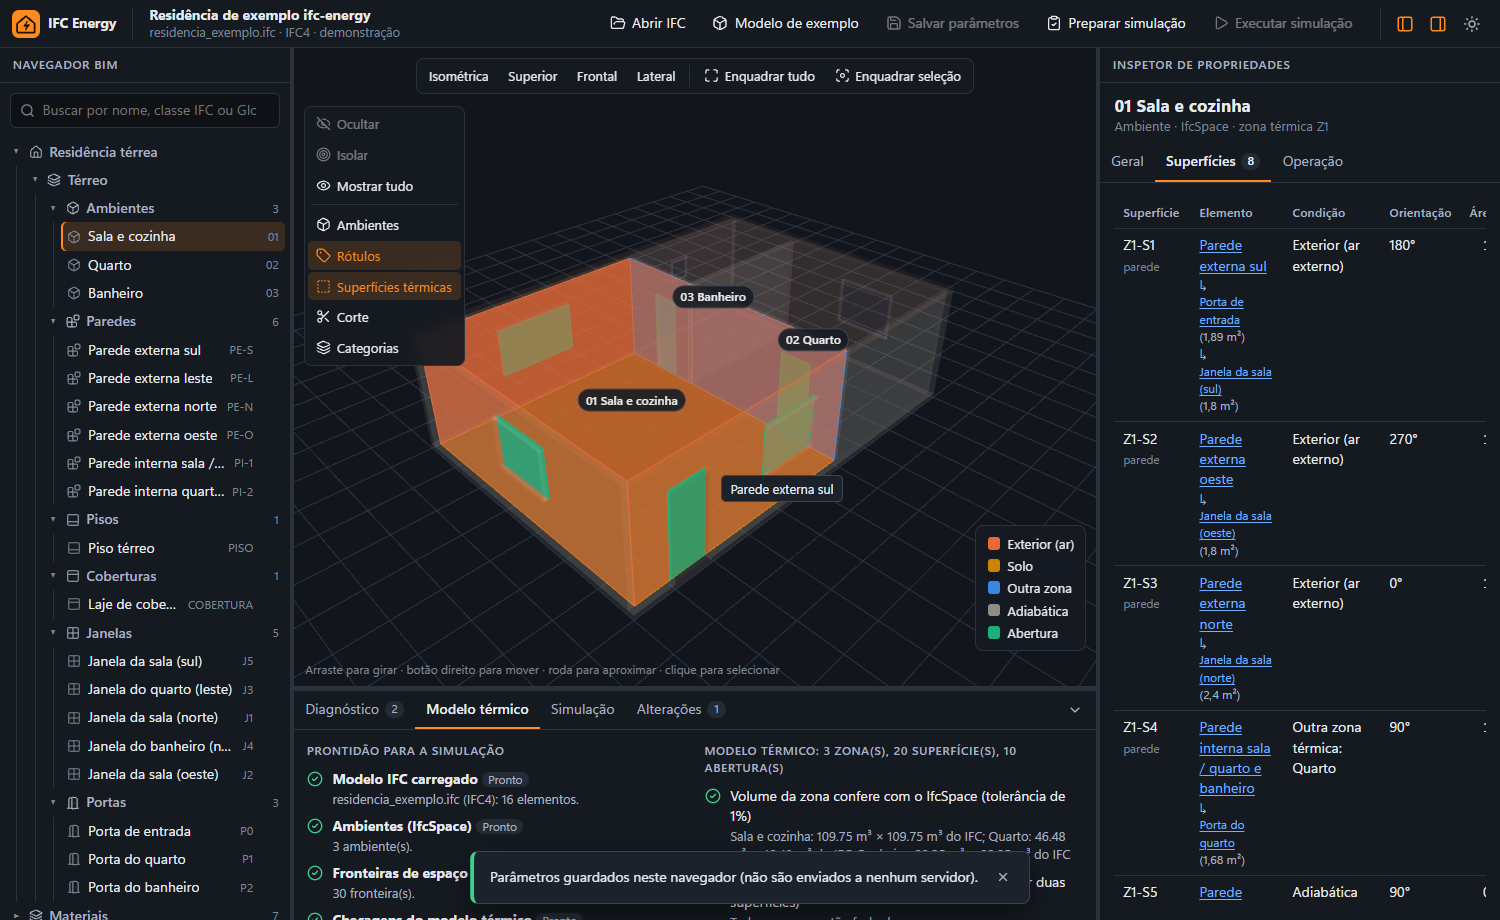
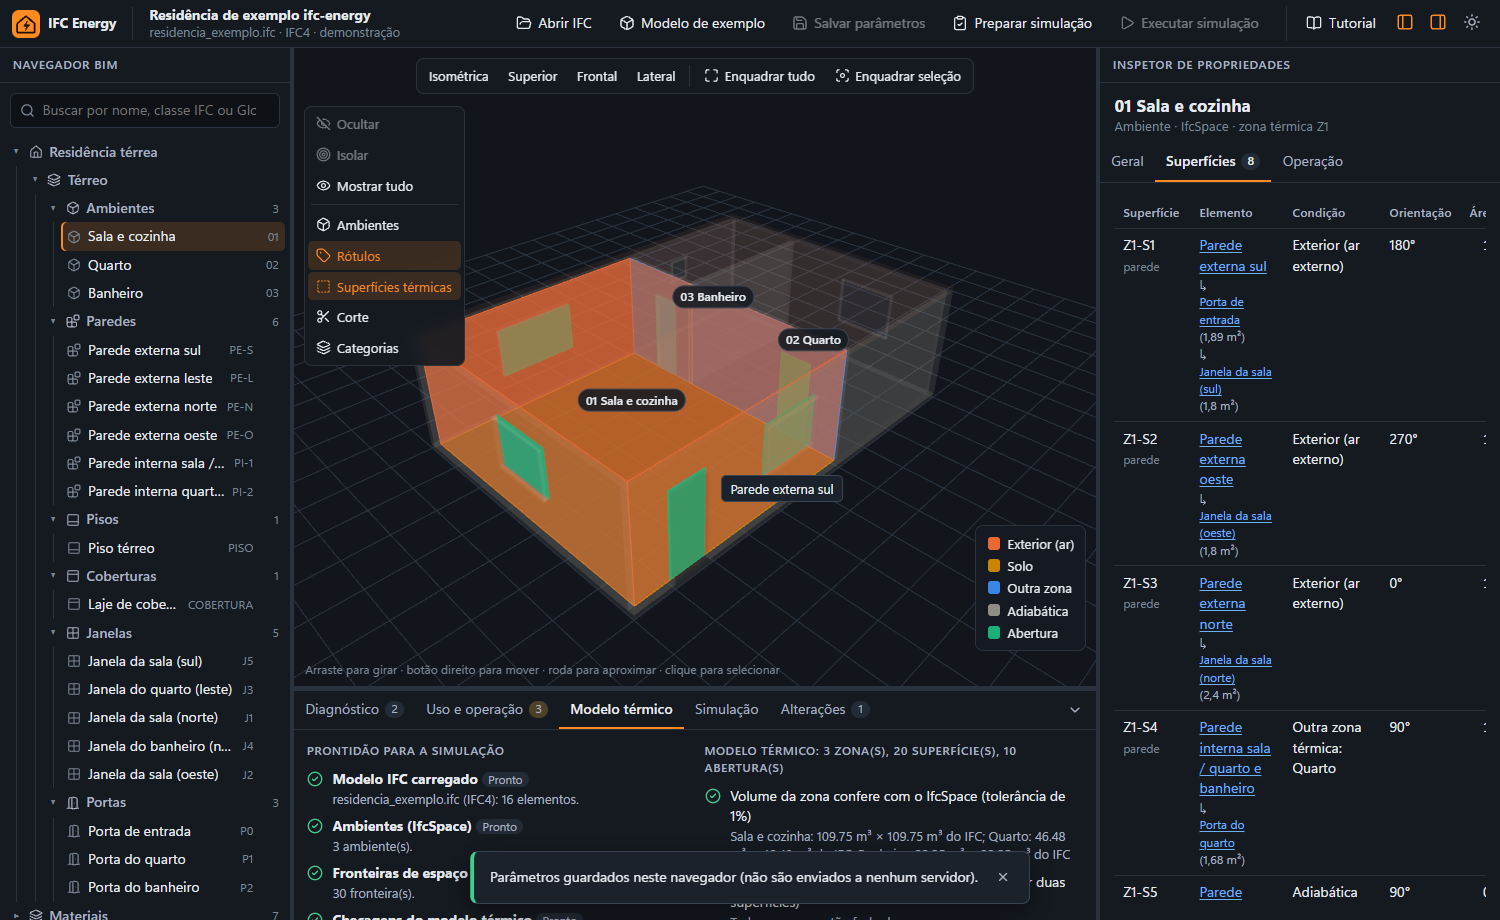
docs: formulário de uso, tutorial, decisão 0008 e capturas

Changed region(s): [[0.3373, 0.0, 0.92, 0.0304], [0.276, 0.7609, 0.552, 0.7913]]

diff --git a/docs/PROGRESSO.md b/docs/PROGRESSO.md
@@ -6,6 +6,62 @@ vem depois. As mais recentes ficam no topo.
 - Repositório: https://github.com/thiagotcg59/ifc-energy
 - Demonstração: https://thiagotcg59.github.io/ifc-energy/
 
+## Formulário de uso e operação e tutorial (aguardando aceite)
+
+Feito em 16/11/2026, a pedido do dono.
+
+![Formulário de uso e operação no painel inferior](capturas/demo-15-uso-e-operacao.png)
+
+**Feito**
+
+- Aba **Uso e operação** no painel inferior: por ambiente, ocupação (pessoas,
+  calor por pessoa, horário), iluminação e equipamentos (W/m² e horário),
+  setpoints de aquecimento e resfriamento e infiltração (trocas de ar por
+  hora).
+- **Nenhum campo vem preenchido e a plataforma não sugere valores.** O que é
+  digitado fica com a origem "manual", entra no histórico e é salvo junto com
+  os outros parâmetros (campo `operacao` dos ajustes), separado do IFC.
+- Limites só para barrar erro de digitação; o setpoint de resfriamento
+  precisa ser maior que o de aquecimento; início e fim do horário não podem
+  ser iguais.
+- "Copiar para os outros ambientes" e "Apagar os dados deste ambiente".
+- A etapa de prontidão "Ocupação, iluminação, equipamentos e setpoints"
+  deixou de ser "não implementado": fica pendente até todos os ambientes
+  estarem completos. **A simulação do IFC continua indisponível** (falta a
+  conversão para epJSON).
+- A aba "Operação" do inspetor do ambiente mostra os valores informados, com
+  a origem, e leva ao formulário.
+- **Tutorial** em 9 passos (botão "Tutorial" na barra superior e link na tela
+  inicial), com atalhos que levam à parte da tela de que cada passo fala.
+
+**Como verificar**
+
+```powershell
+cd C:\Projetos\ifc-energy
+.\iniciar.ps1
+```
+
+1. Na tela inicial, clique em **Como usar a plataforma**: o tutorial abre.
+2. Abra a residência de exemplo e clique em **Tutorial** na barra superior.
+   No passo 7, clique em **Ir para o formulário**.
+3. Clique em **Sala e cozinha** no topo do formulário e preencha alguns
+   campos. Tente `5000` na potência de iluminação: é recusado.
+4. **Salvar parâmetros**, recarregue (F5) e abra o exemplo: os valores
+   continuam.
+5. **Preparar simulação**: a etapa de uso mostra "x de 3 ambientes".
+
+**Testes:** 87 no backend (4 com o EnergyPlus real), 65 no front-end e 18
+etapas no navegador (demonstração e modo local).
+
+**Um teste antigo teve o texto esperado trocado, e não foi para fazê-lo
+passar:** o teste do inspetor do ambiente procurava a linha única
+"Temperaturas de configuração", que deu lugar a uma linha por setpoint. A
+verificação continua a mesma: sem preenchimento, aparece "Não informado".
+
+**Simplificações desta primeira versão (decisão 0008):** horários iguais
+todos os dias, um intervalo por dia, setpoints valendo o dia inteiro. Dias
+úteis e fins de semana, e a ventilação natural, ficam para depois.
+
 ## Evolução BIM — marcos B, A, C e D (aguardando aceite)
 
 Plano: [spec/plano-evolucao-bim.md](spec/plano-evolucao-bim.md). Feito de
@@ -215,6 +271,5 @@ git log --oneline
 - Aceite dos marcos B, A, C e D e tag `v0.2.0`.
 - Conversão do modelo térmico para epJSON com cargas ideais, validada contra
   o esquema e com os dias de projeto, para então liberar a simulação do IFC.
-- Formulário de ocupação, iluminação, equipamentos, horários e setpoints.
 - Escolha do arquivo climático pela localização do IfcSite.
 - Superfícies pela geometria dos ambientes, para IFC sem fronteiras de 2º nível.

diff --git a/docs/decisoes/0008-dados-de-uso-e-operacao.md b/docs/decisoes/0008-dados-de-uso-e-operacao.md
@@ -1,0 +1,45 @@
+# 0008 — Dados de uso e operação dos ambientes
+
+**Data:** 16/11/2026 · **Estado:** aguardando aceite do dono
+
+## Decisão
+
+1. Os dados de uso são informados **por ambiente** (IfcSpace) e guardados nos
+   ajustes, no campo `operacao` (`GlobalId do ambiente → parâmetro → valor`),
+   com o mesmo formato `{ valor, unidade, origem, fonte }` dos outros valores.
+   A origem é sempre `manual`.
+2. **Não há valores padrão nem sugeridos.** O IFC não traz esses dados e a
+   regra do projeto proíbe valor físico sem fonte aprovada. Os limites dos
+   campos servem só para barrar erro de digitação.
+3. Parâmetros e o objeto do EnergyPlus que cada grupo vai alimentar na
+   conversão futura (os nomes dos campos serão conferidos no esquema
+   instalado quando a conversão for escrita):
+
+   | Grupo | Parâmetros | Objeto |
+   |---|---|---|
+   | Ocupação | pessoas; calor por pessoa (W/pessoa); início e fim (h) | `People` |
+   | Iluminação | potência (W/m²); início e fim (h) | `Lights` |
+   | Equipamentos | potência (W/m²); início e fim (h) | `ElectricEquipment` |
+   | Setpoints | aquecimento e resfriamento (°C) | `ThermostatSetpoint:DualSetpoint` |
+   | Infiltração | trocas de ar por hora | `ZoneInfiltration:DesignFlowRate` |
+
+4. Um ambiente está **completo** quando todos os parâmetros foram informados.
+   Se o número de pessoas (ou a potência) for zero, os demais campos daquele
+   grupo não são exigidos.
+5. A definição dos parâmetros fica no front-end
+   (`frontend/src/dominio/operacao.ts`); o backend só guarda. Quando a
+   conversão para epJSON for feita, a definição passa a ser compartilhada.
+
+## Simplificações desta versão
+
+- Horários iguais todos os dias, com um único intervalo por dia. De 0 a 24 é
+  o dia inteiro; início maior que o fim atravessa a meia-noite.
+- Setpoints valem o dia inteiro.
+- Sem distinção entre calor sensível e latente das pessoas, nem fração
+  radiante de luzes e equipamentos: esses valores terão de vir de fonte
+  aprovada antes da conversão.
+
+## O que isso não faz
+
+Não libera a simulação do IFC. Método de norma (INI-R, NBR 15575) para perfis
+de uso só entra com o texto fornecido pelo dono e especificação aprovada.

diff --git a/README.md b/README.md
@@ -22,6 +22,9 @@ https://thiagotcg59.github.io/ifc-energy/
   cada valor** (IFC, calculado, manual, biblioteca ou não informado).
 - Modelo térmico intermediário com checagens automáticas e superfícies
   coloridas pela condição de contorno.
+- Formulário de uso e operação por ambiente (ocupação, iluminação,
+  equipamentos, setpoints e infiltração), sem valores sugeridos.
+- Tutorial passo a passo dentro da própria ferramenta.
 - Simulação de ponta a ponta de um exemplo do EnergyPlus.
 
 Ainda **não** faz a simulação do seu IFC: falta a conversão validada do
@@ -36,8 +39,9 @@ modelo térmico para o EnergyPlus. A interface deixa isso claro.
 | Marco A | Interface de trabalho e visualizador 3D | 🔧 aguardando aceite |
 | Marco C | Inspetor térmico paramétrico (edição, recálculo, persistência) | 🔧 aguardando aceite |
 | Marco D | Modelo térmico, checagens e prontidão para simular | 🔧 aguardando aceite |
+| Uso e tutorial | Formulário de uso e operação por ambiente e tutorial | 🔧 aguardando aceite |
 | Próxima | Conversão para epJSON com cargas ideais e simulação do IFC | ⏳ |
-| Depois | Formulários de uso e clima; cenários; ventilação natural; split; normas | ⏳ |
+| Depois | Escolha do clima; cenários; ventilação natural; split; normas | ⏳ |
 
 O andamento detalhado fica em [docs/PROGRESSO.md](docs/PROGRESSO.md).
 

diff --git a/AGENTS.md b/AGENTS.md
@@ -61,6 +61,8 @@ cd backend; uv run python -m app.gerar_demo                     # regenera os da
 - Todo valor físico mostra a origem (IFC, calculado, manual, biblioteca,
   não informado). Valor ausente fica ausente; nunca preencher.
 - O IFC original nunca é alterado; edições vão para os "ajustes".
+- Dados de uso (ocupação, iluminação, equipamentos, setpoints, infiltração)
+  só existem quando o dono informa: nenhum valor padrão, nem sugerido.
 - Não prometer simulação do IFC enquanto a conversão para epJSON não existir
   e não estiver validada.
 - O cálculo térmico existe em Python e em TypeScript; ao mudar um, mudar o

diff --git a/.agents/rules/01-como-trabalhar.md b/.agents/rules/01-como-trabalhar.md
@@ -17,8 +17,8 @@
       inspetor térmico paramétrico e modelo térmico com checagens;
    3. conversão do modelo térmico para epJSON com cargas ideais e simulação
       do IFC;
-   4. formulários de uso (ocupação, iluminação, equipamentos, setpoints) e
-      escolha do clima;
+   4. escolha do clima (o formulário de uso e operação já existe; ele nunca
+      sugere valores);
    5. cenários de retrofit;
    6. ventilação natural;
    7. split real;
